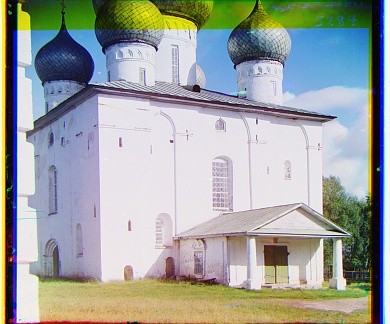
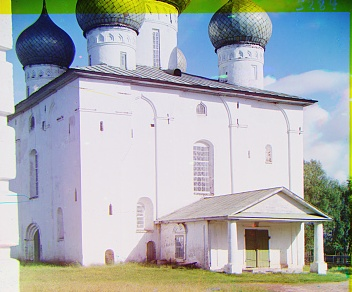
modificacio main

diff --git a/Lab2/main.py b/Lab2/main.py
@@ -7,18 +7,15 @@ BASE_DIR = os.path.dirname(os.path.abspath(__file__))
 INPUT_DIR = os.path.join(BASE_DIR, "fotos", "input")
 OUTPUT_DIR = os.path.join(BASE_DIR, "fotos", "output")
 
-
-def split_channels(img):
-    h = img.shape[0] // 3
-    return img[0:h], img[h:2*h], img[2*h:3*h]
-
-
 def crop_borders(img, percent=0.1):
     h, w = img.shape
     dh = int(h * percent)
     dw = int(w * percent)
     return img[dh:h-dh, dw:w-dw]
 
+def split_channels(img):
+    h = img.shape[0] // 3
+    return img[0:h], img[h:2*h], img[2*h:3*h]
 
 def shift_image(img, dx, dy):
     h, w = img.shape
@@ -169,6 +166,8 @@ def process_image(path):
     b, g, r = split_channels(img)
     b, g, r = align_channels(b, g, r)
     b, g, r = crop_valid_region(b, g, r)
+
+    b = crop_borders(b, 0.05); g = crop_borders(g, 0.05); r = crop_borders(r, 0.05)
 
     color = np.dstack((b, g, r))
 
